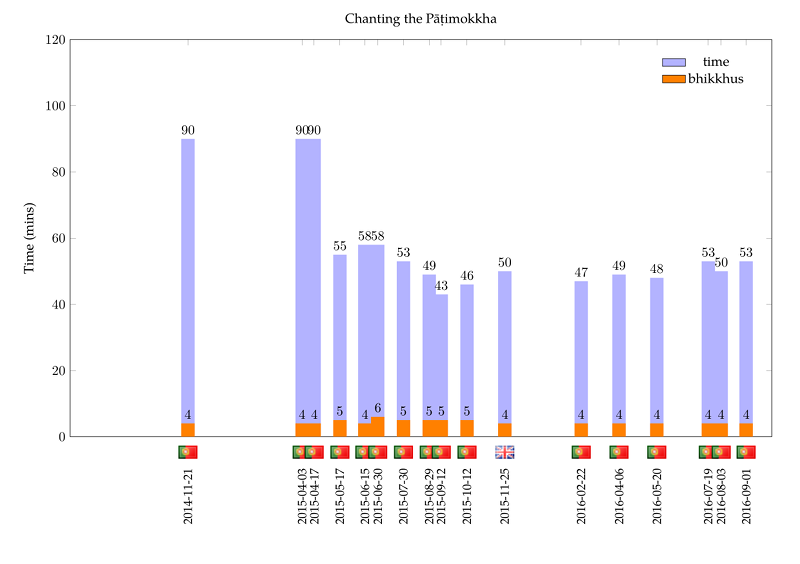
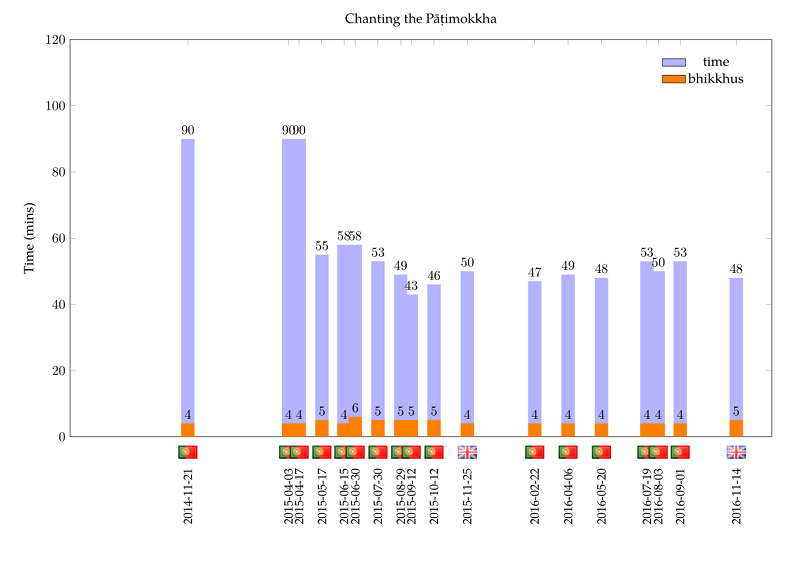
upd

Changed region(s): [[0.3438, 0.211, 0.9688, 0.9344]]

diff --git a/src/patimokkha-chanting-chart.tex b/src/patimokkha-chanting-chart.tex
@@ -54,7 +54,7 @@
     ylabel=Time (mins),
     xtick=data,
     xmin=2014-11-20,
-    xmax=2016-10-01,
+    xmax=2016-12-31,
     enlarge x limits={rel=0.2,lower},
     xticklabel style={yshift=-20pt,rotate=90,anchor=east,font=\small},
     xticklabel={\year-\month-\day},
@@ -100,6 +100,7 @@
   \node [anchor=south, yshift=-20pt] at (axis cs:2016-07-19,0) {\includegraphics[width=5mm]{pt}};
   \node [anchor=south, yshift=-20pt] at (axis cs:2016-08-03,0) {\includegraphics[width=5mm]{pt}};
   \node [anchor=south, yshift=-20pt] at (axis cs:2016-09-01,0) {\includegraphics[width=5mm]{pt}};
+  \node [anchor=south, yshift=-20pt] at (axis cs:2016-11-14,0) {\includegraphics[width=5mm]{gb}};
 
 \end{axis}
 \end{tikzpicture}
